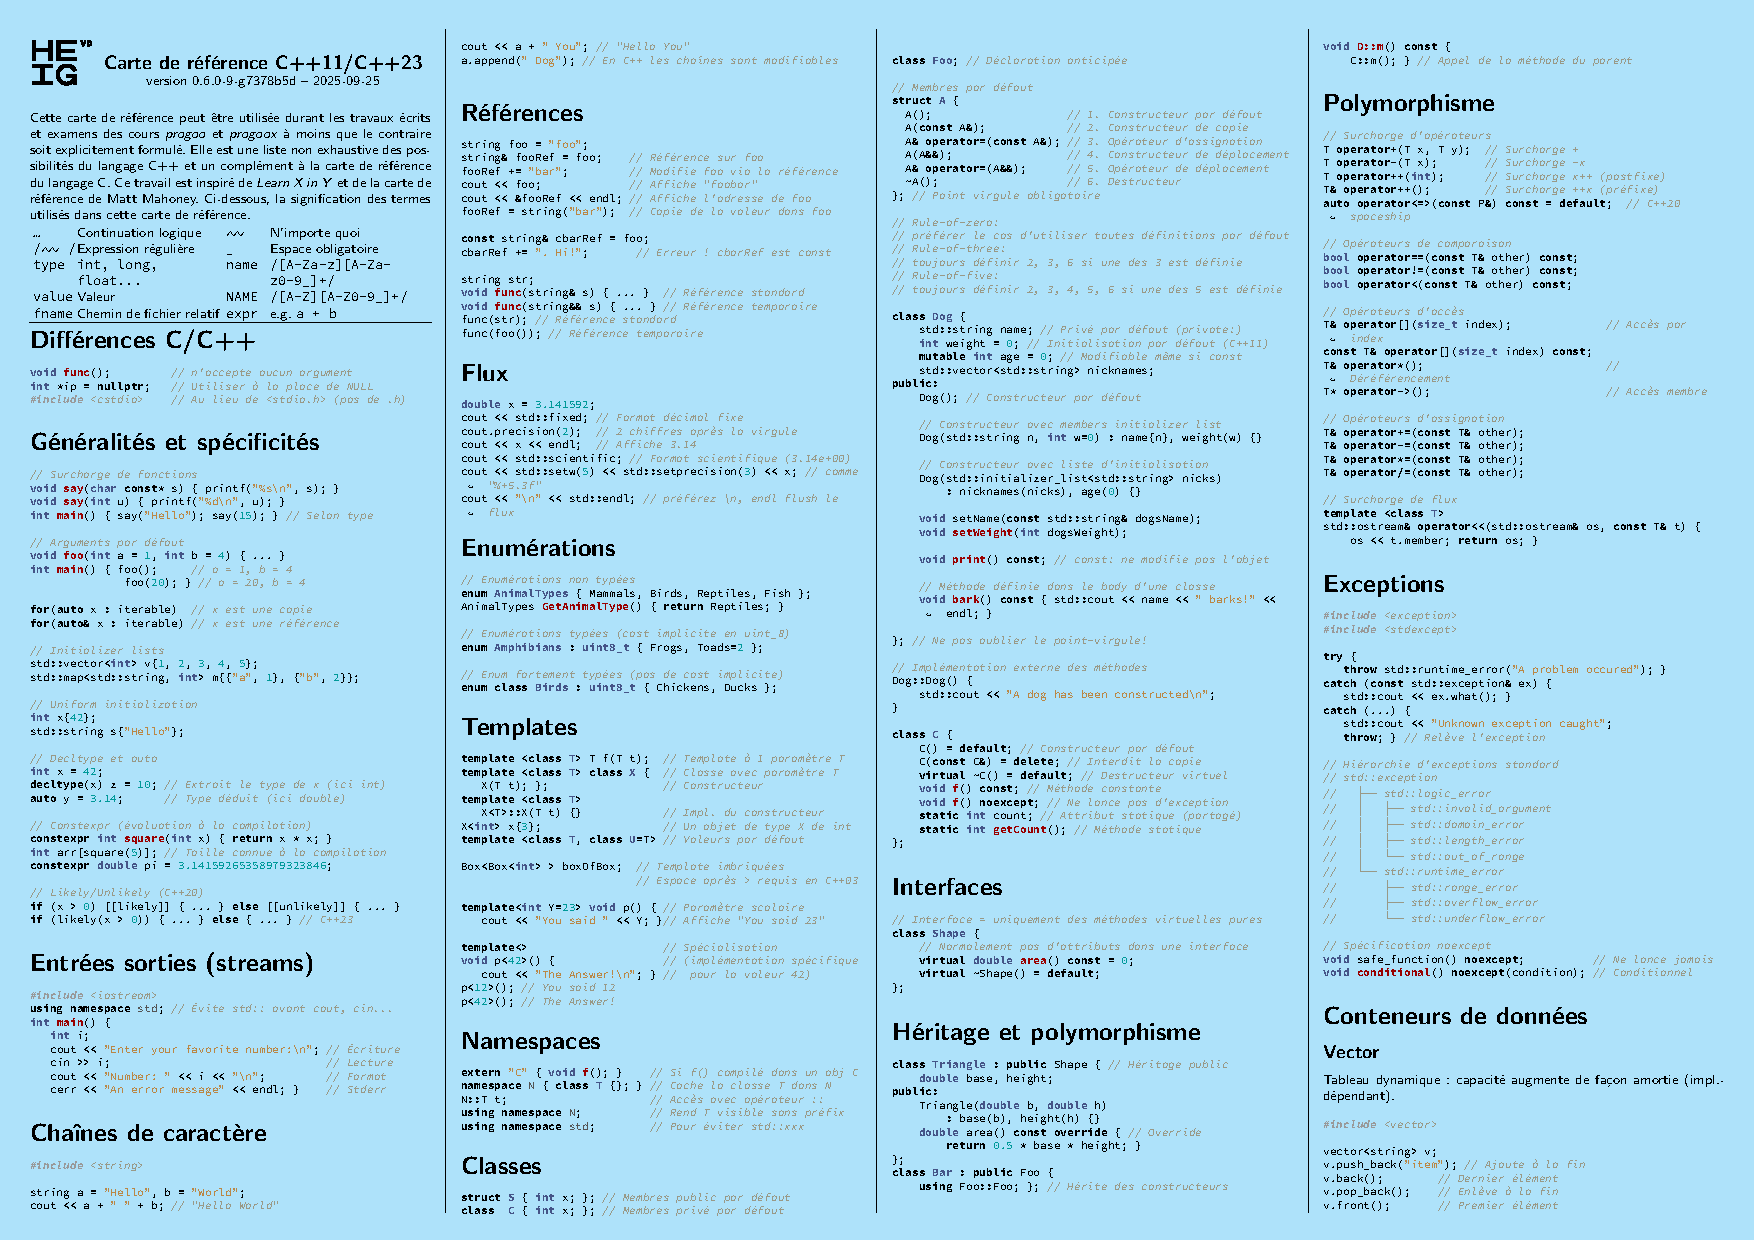
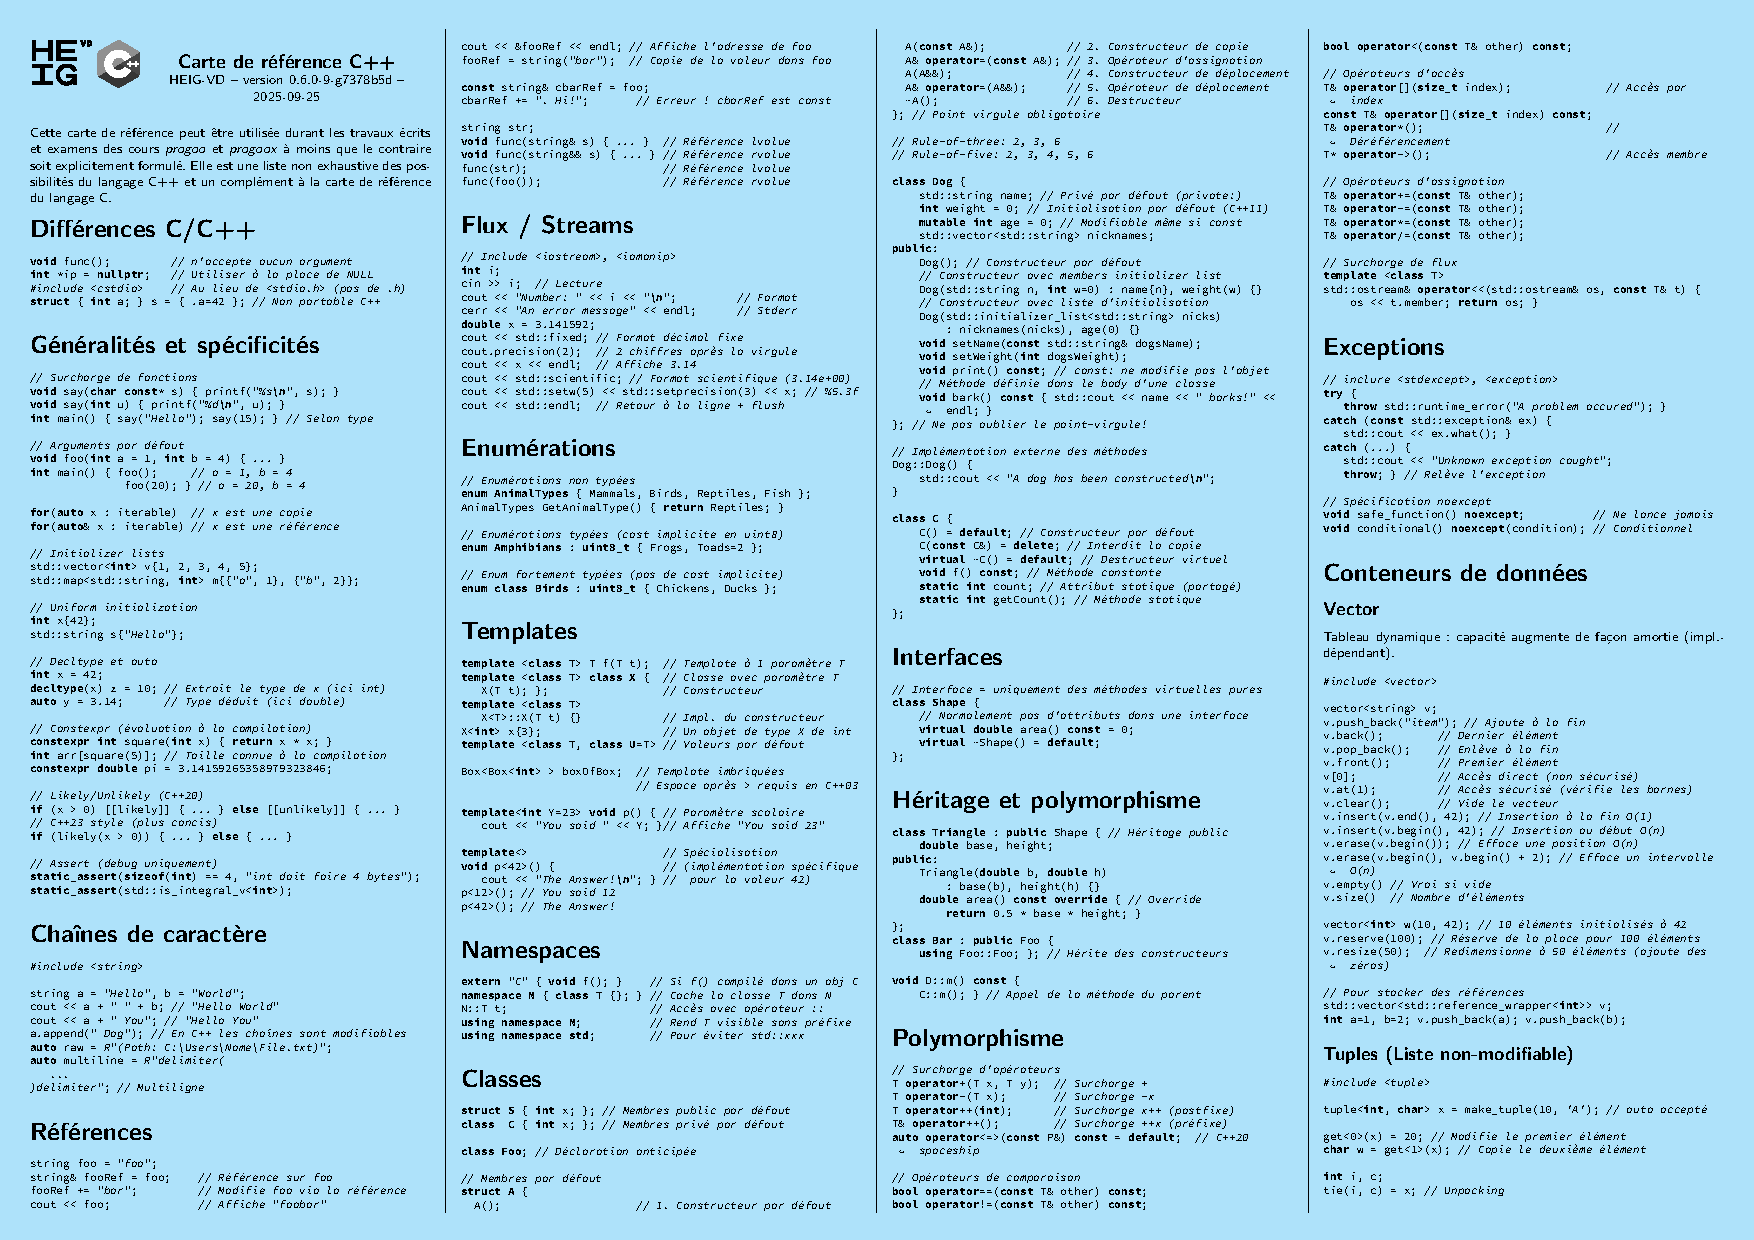
Fix quote

diff --git a/refcard.tex b/refcard.tex
@@ -27,7 +27,7 @@
 
 \renewcommand{\familydefault}{\sfdefault}
 
-\usemintedstyle{trac}
+\usemintedstyle{bw}
 
 \newminted{cpp}{
   fontsize=\footnotesize,
@@ -440,7 +440,7 @@ m.insert(pair<char,int>('Z', 26));
 
 map<char, int>::iterator it; // Itérateur
 for (it=m.begin(); it!=m.end(); ++it)
-    std::cout << it->first << "->" << it->second << ', ';
+    std::cout << it->first << "->" << it->second << ", ";
 
 it = m.find('Z');
 cout << it->second; // Affiche 26
